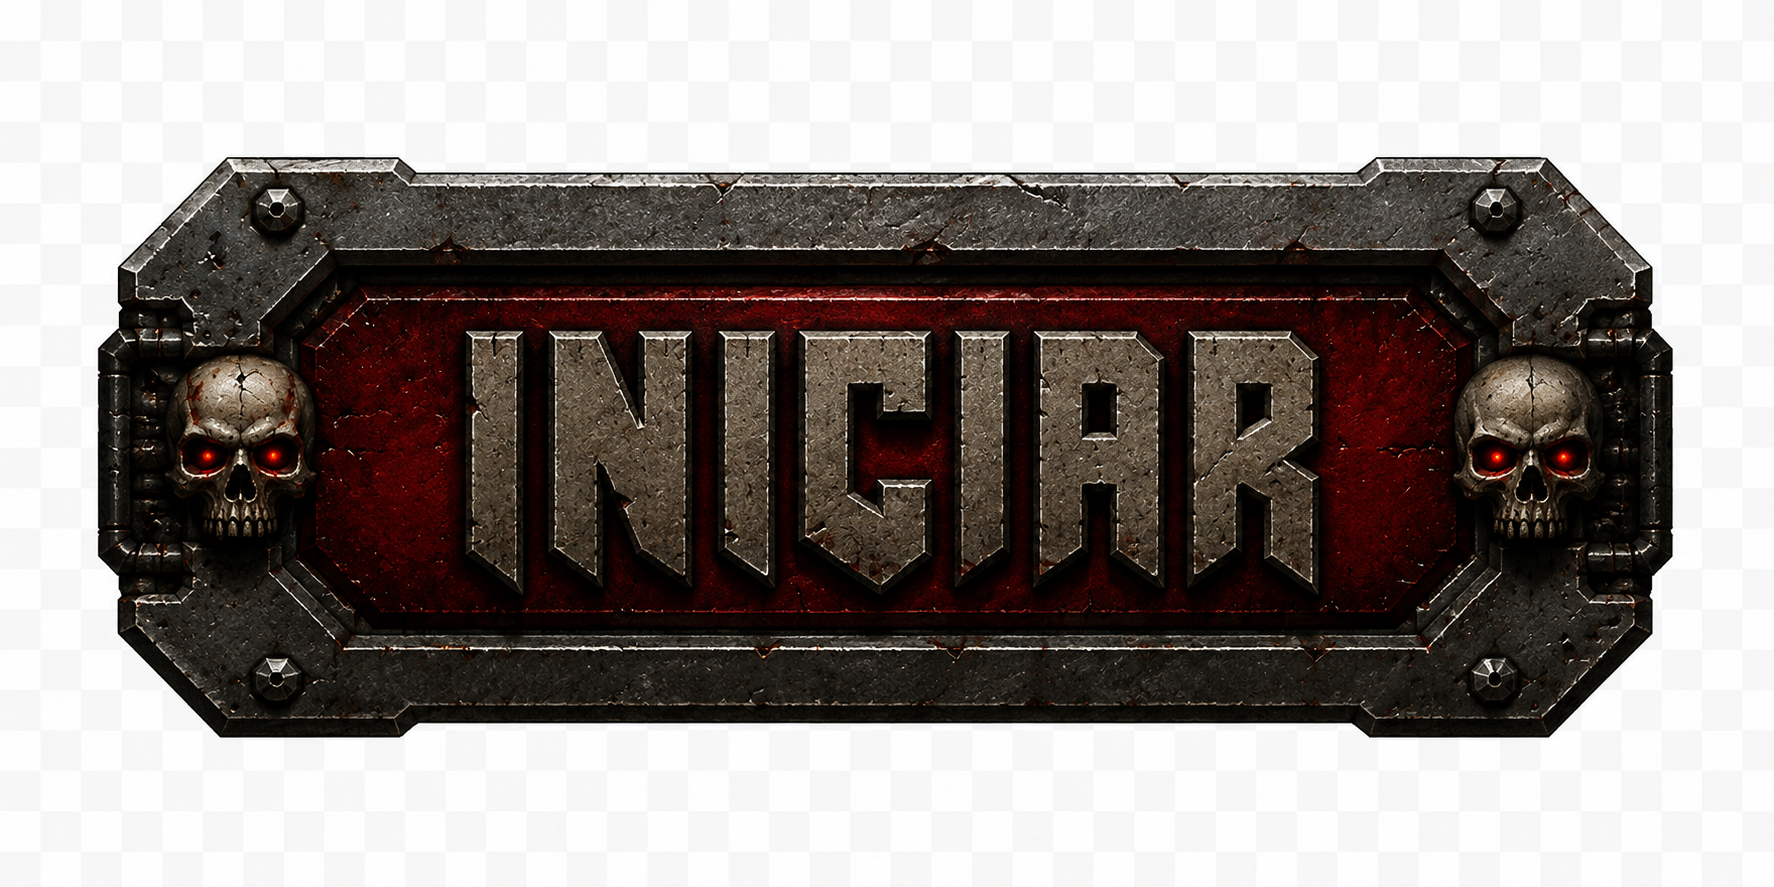
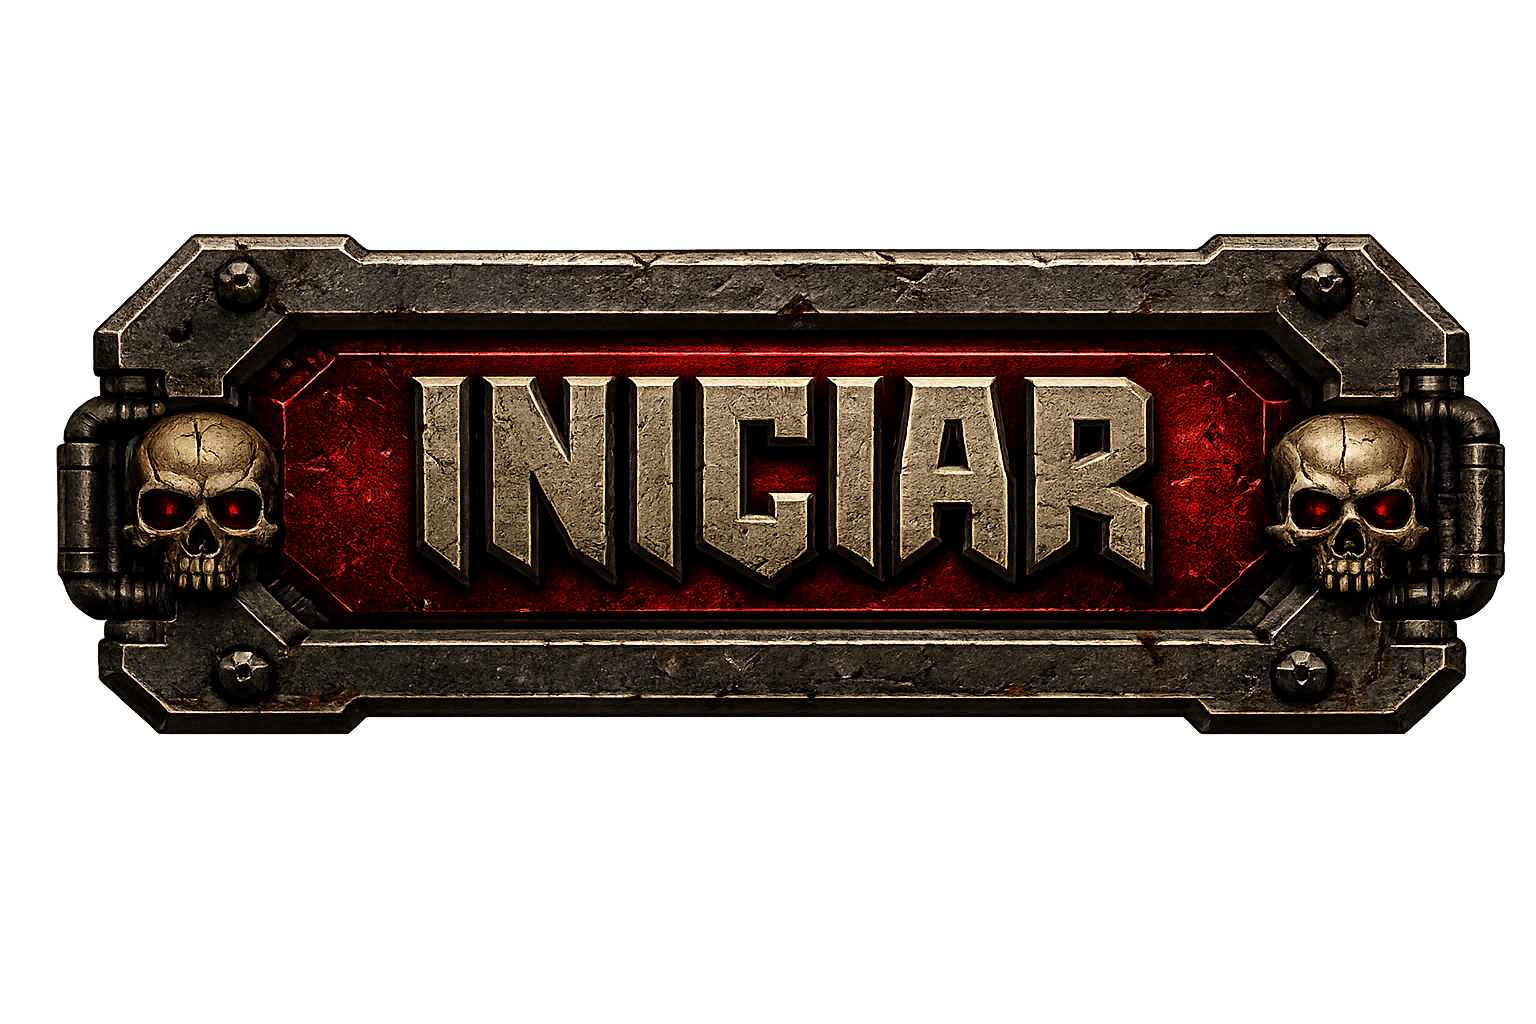
se agrego un menu

diff --git a/src/org/drgnst/game/Menu.java b/src/org/drgnst/game/Menu.java
@@ -1,5 +1,6 @@
 package org.drgnst.game;
 
+import java.awt.Graphics;
 import java.awt.image.BufferedImage;
 import java.io.File;
 import java.io.IOException;
@@ -15,10 +16,13 @@ public class Menu
 {
     private Bitmap menuImage;
     private Bitmap startButtonImage;
-    
-    // Posición del botón en esquina inferior derecha
-    private static final int BUTTON_START_X = 380;
-    private static final int BUTTON_START_Y = 300;
+    private BufferedImage menuImageRaw;
+    private BufferedImage startButtonRaw;
+
+    private static final int BUTTON_MARGIN_RIGHT = 22;
+    private static final int BUTTON_MARGIN_BOTTOM = 18;
+    private static final int BUTTON_DRAW_WIDTH = 220;
+    private static final int BUTTON_DRAW_HEIGHT = 72;
     
     public static final int BUTTON_NONE = 0;
     public static final int BUTTON_START = 1;
@@ -40,6 +44,7 @@ public class Menu
                 return;
             }
 
+            startButtonRaw = image;
             startButtonImage = new Bitmap(image.getWidth(), image.getHeight());
             image.getRGB(0, 0, startButtonImage.width, startButtonImage.height, startButtonImage.pixels, 0, startButtonImage.width);
             System.out.println("✓ Botón inicio cargado: " + startButtonImage.width + "x" + startButtonImage.height);
@@ -62,6 +67,7 @@ public class Menu
                 return;
             }
 
+            menuImageRaw = image;
             menuImage = new Bitmap(image.getWidth(), image.getHeight());
             image.getRGB(0, 0, menuImage.width, menuImage.height, menuImage.pixels, 0, menuImage.width);
             System.out.println("✓ Menu cargado: " + menuImage.width + "x" + menuImage.height);
@@ -94,12 +100,31 @@ public class Menu
             renderStartButton(screen);
         }
     }
+
+    public void renderToGraphics(Graphics g, int screenWidth, int screenHeight)
+    {
+        if (menuImageRaw == null)
+        {
+            g.setColor(java.awt.Color.BLACK);
+            g.fillRect(0, 0, screenWidth, screenHeight);
+            return;
+        }
+
+        g.drawImage(menuImageRaw, 0, 0, screenWidth, screenHeight, null);
+
+        if (startButtonRaw != null)
+        {
+            int bx = getButtonX(screenWidth);
+            int by = getButtonY(screenHeight);
+            g.drawImage(startButtonRaw, bx, by, BUTTON_DRAW_WIDTH, BUTTON_DRAW_HEIGHT, null);
+        }
+    }
     
     private void renderStartButton(Bitmap screen)
     {
         Bitmap btn = startButtonImage;
-        int bx = BUTTON_START_X;
-        int by = BUTTON_START_Y;
+        int bx = getButtonX(screen.width);
+        int by = getButtonY(screen.height);
         
         // Renderizar botón sin escala (usar tamaño original)
         for (int y = 0; y < btn.height && by + y < screen.height; y++)
@@ -108,32 +133,56 @@ public class Menu
             {
                 int color = btn.pixels[x + y * btn.width];
                 int alpha = (color >>> 24) & 0xff;
-                
-                if (alpha >= 128)  // Solo dibujar si no es transparente
-                {
-                    screen.pixels[(bx + x) + (by + y) * screen.width] = color & 0xffffff;
-                }
+
+                if (alpha == 0)
+                    continue;
+
+                int px = bx + x;
+                int py = by + y;
+                int idx = px + py * screen.width;
+
+                int dst = screen.pixels[idx];
+                int dr = (dst >> 16) & 0xff;
+                int dg = (dst >> 8) & 0xff;
+                int db = dst & 0xff;
+
+                int sr = (color >> 16) & 0xff;
+                int sg = (color >> 8) & 0xff;
+                int sb = color & 0xff;
+
+                int nr = (dr * (255 - alpha) + sr * alpha) / 255;
+                int ng = (dg * (255 - alpha) + sg * alpha) / 255;
+                int nb = (db * (255 - alpha) + sb * alpha) / 255;
+
+                screen.pixels[idx] = (nr << 16) | (ng << 8) | nb;
             }
         }
     }
     
     public int checkClick(int mouseX, int mouseY, int screenWidth, int screenHeight)
     {
-        if (startButtonImage == null)
+        if (startButtonRaw == null)
             return BUTTON_NONE;
-        
-        // Escalar coordenadas del mouse a resolución del menú (480x360)
-        int menuMouseX = (int) (mouseX * 480 / screenWidth);
-        int menuMouseY = (int) (mouseY * 360 / screenHeight);
-        
-        // Verificar si está dentro del área del botón de inicio
-        if (menuMouseX >= BUTTON_START_X && menuMouseX < BUTTON_START_X + startButtonImage.width &&
-            menuMouseY >= BUTTON_START_Y && menuMouseY < BUTTON_START_Y + startButtonImage.height)
+
+        int bx = getButtonX(screenWidth);
+        int by = getButtonY(screenHeight);
+
+        if (mouseX >= bx && mouseX < bx + BUTTON_DRAW_WIDTH && mouseY >= by && mouseY < by + BUTTON_DRAW_HEIGHT)
         {
             return BUTTON_START;
         }
-        
+
         return BUTTON_NONE;
+    }
+
+    private int getButtonX(int screenWidth)
+    {
+        return screenWidth - BUTTON_DRAW_WIDTH - BUTTON_MARGIN_RIGHT;
+    }
+
+    private int getButtonY(int screenHeight)
+    {
+        return screenHeight - BUTTON_DRAW_HEIGHT - BUTTON_MARGIN_BOTTOM;
     }
 
     private void scaleAndRenderMenu(Bitmap screen, Bitmap menu)
@@ -169,8 +218,32 @@ public class Menu
                     continue;
 
                 int color = menu.pixels[srcX + srcY * menu.width];
-                // Mostrar el color directamente sin filtrar por alpha
-                screen.pixels[px + py * screen.width] = color & 0xffffff;
+                int alpha = (color >>> 24) & 0xff;
+
+                if (alpha == 0)
+                    continue;
+
+                int idx = px + py * screen.width;
+                if (alpha == 255)
+                {
+                    screen.pixels[idx] = color & 0xffffff;
+                    continue;
+                }
+
+                int dst = screen.pixels[idx];
+                int dr = (dst >> 16) & 0xff;
+                int dg = (dst >> 8) & 0xff;
+                int db = dst & 0xff;
+
+                int sr = (color >> 16) & 0xff;
+                int sg = (color >> 8) & 0xff;
+                int sb = color & 0xff;
+
+                int nr = (dr * (255 - alpha) + sr * alpha) / 255;
+                int ng = (dg * (255 - alpha) + sg * alpha) / 255;
+                int nb = (db * (255 - alpha) + sb * alpha) / 255;
+
+                screen.pixels[idx] = (nr << 16) | (ng << 8) | nb;
             }
         }
     }

diff --git a/src/org/drgnst/game/Main.java b/src/org/drgnst/game/Main.java
@@ -138,21 +138,7 @@ public class Main extends Canvas implements Runnable
 
         if (menuActive)
         {
-            // Renderizar menú con resolución 2x (320x240)
-            for (int i = 0; i < pixelsMenu.length; i++)
-            {
-                pixelsMenu[i] = 0;
-            }
-
-            menu.render(screenMenu);
-
-            for (int i = 0; i < pixelsMenu.length; i++)
-            {
-                pixelsMenu[i] = screenMenu.pixels[i];
-            }
-
-            // Dibujar menú (320x240 escalado a 640x480)
-            g.drawImage(imageMenu, 0, 0, WIDTH * SCALE, HEIGHT * SCALE, null);
+            menu.renderToGraphics(g, WIDTH * SCALE, HEIGHT * SCALE);
         }
         else
         {
@@ -189,15 +175,14 @@ public class Main extends Canvas implements Runnable
             }
             spaceWasDown = inputHandler.keys[java.awt.event.KeyEvent.VK_SPACE];
             
-            // Detectar clics en botón START del menú
-            if (inputHandler.mousePressed)
+            // Detectar click en botón START del menú (evento latched)
+            if (inputHandler.consumeMouseClick())
             {
-                int buttonClicked = menu.checkClick(inputHandler.mouseX, inputHandler.mouseY, WIDTH * SCALE, HEIGHT * SCALE);
+                int buttonClicked = menu.checkClick(inputHandler.mouseX, inputHandler.mouseY, getWidth(), getHeight());
                 
                 if (buttonClicked == Menu.BUTTON_START)
                 {
                     menuActive = false;
-                    inputHandler.mousePressed = false;
                 }
             }
             

diff --git a/src/org/drgnst/game/InputHandler.java b/src/org/drgnst/game/InputHandler.java
@@ -19,6 +19,7 @@ public class InputHandler implements KeyListener, FocusListener, MouseMotionList
     public int mouseX;
     public int mouseY;
     public boolean mousePressed;
+    private boolean mouseClickPending;
 
     public InputHandler()
     {
@@ -26,6 +27,7 @@ public class InputHandler implements KeyListener, FocusListener, MouseMotionList
         mouseX = 0;
         mouseY = 0;
         mousePressed = false;
+        mouseClickPending = false;
     }
 
     @Override
@@ -34,8 +36,11 @@ public class InputHandler implements KeyListener, FocusListener, MouseMotionList
     }
 
     @Override
-    public void mouseClicked(MouseEvent arg0)
+    public void mouseClicked(MouseEvent e)
     {
+        mouseX = e.getX();
+        mouseY = e.getY();
+        mouseClickPending = true;
     }
 
     @Override
@@ -54,6 +59,7 @@ public class InputHandler implements KeyListener, FocusListener, MouseMotionList
         mouseX = e.getX();
         mouseY = e.getY();
         mousePressed = true;
+        mouseClickPending = true;
     }
 
     @Override
@@ -105,6 +111,16 @@ public class InputHandler implements KeyListener, FocusListener, MouseMotionList
     @Override
     public void keyTyped(KeyEvent arg0)
     {
+    }
+
+    public boolean consumeMouseClick()
+    {
+        if (mouseClickPending)
+        {
+            mouseClickPending = false;
+            return true;
+        }
+        return false;
     }
 
 }